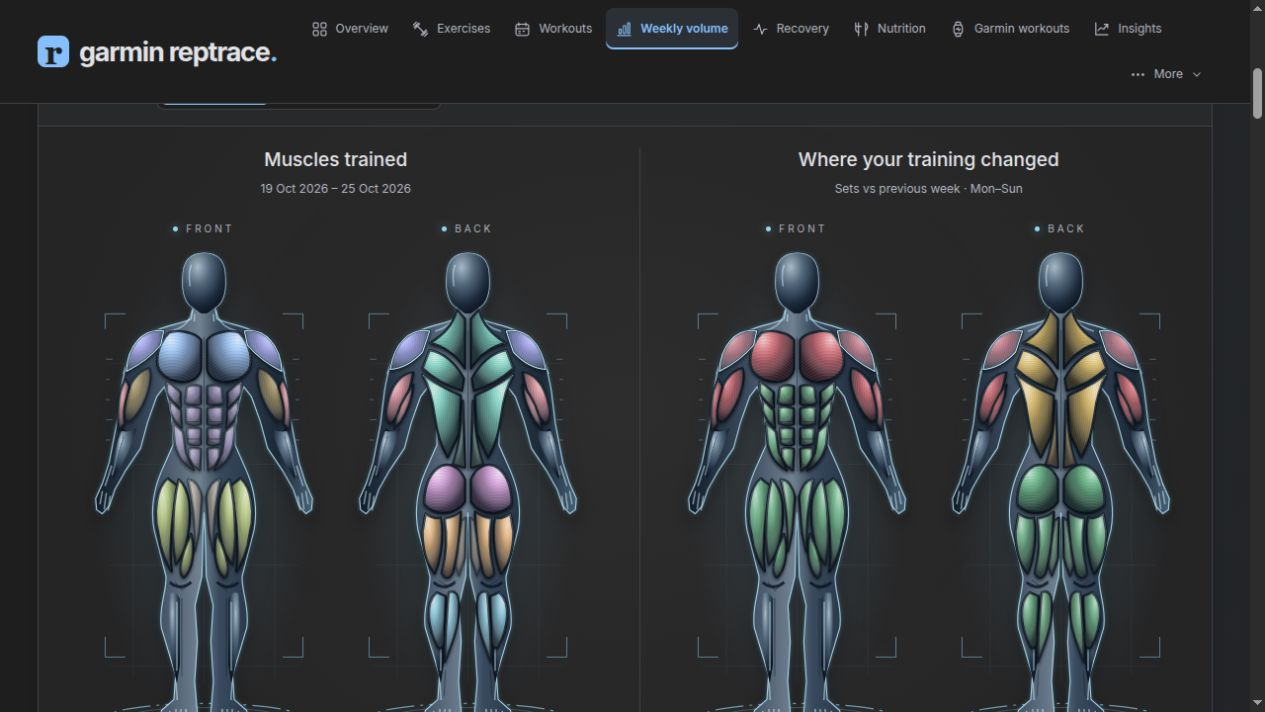
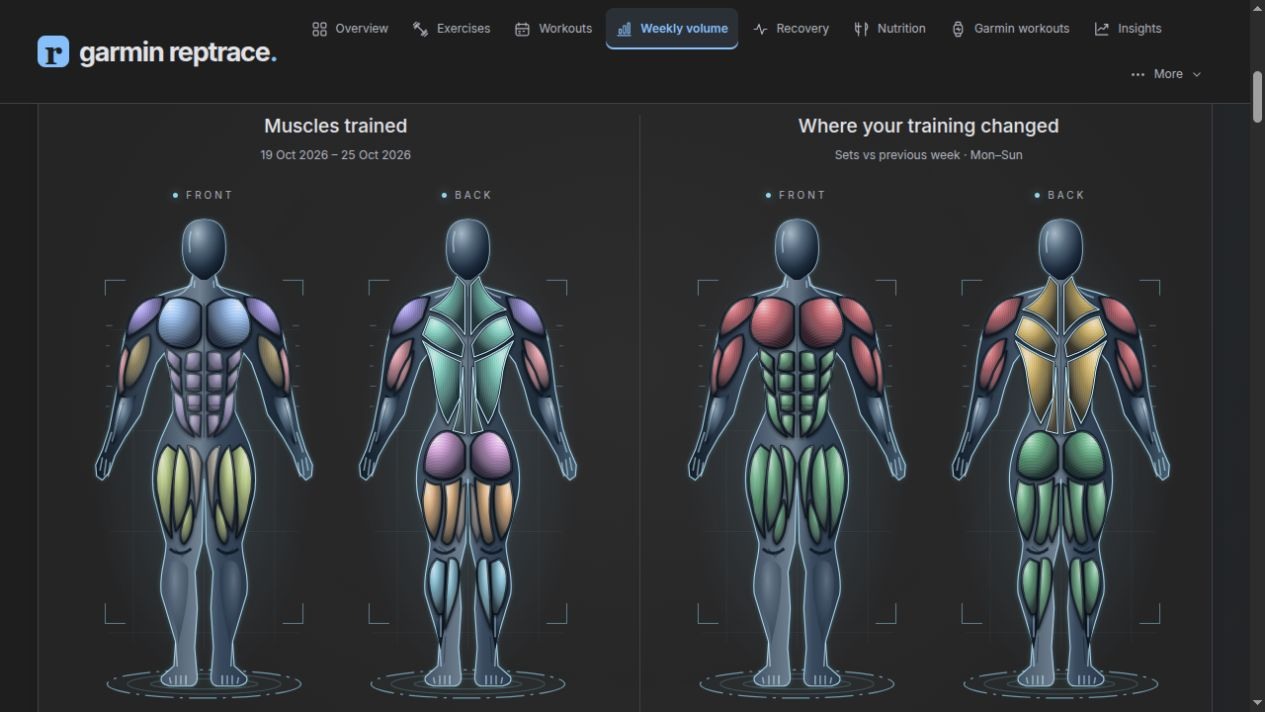
Fix muscle highlight ghosting and front shin artwork

diff --git a/src/reptrace/web/static/styles.css b/src/reptrace/web/static/styles.css
@@ -570,14 +570,14 @@
 @media(max-width:760px){.with-comparison-body .map-visuals{grid-template-columns:1fr;gap:20px}.with-comparison-body .map-change-body{border-left:0;border-top:1px solid var(--line);padding:24px 0 0}.with-comparison-body .map-comparison-cards{grid-template-columns:1fr}.map-body-title{font-size:18px}}
 
 /* Sculpted materials and a quiet holographic stage keep the muscle regions interactive. */
-.body-map-figure{position:relative}.body-map-svg{filter:drop-shadow(0 10px 10px #0005)}
+.body-map-figure{position:relative}.body-map-svg{filter:none}
 .body-stage{pointer-events:none}.body-stage path{fill:none;stroke:#78c7e4;stroke-width:.5;opacity:.10}.body-stage ellipse:not(:first-child){fill:#64d7ff06;stroke:#76cdea;stroke-width:.7;opacity:.35}
 .body-map-svg .body-outline{stroke:#8ba9bd;stroke-width:1;stroke-opacity:.65}
 .body-shell-details{pointer-events:none}.body-shell-details>path:first-child{stroke:#a9c4d5;stroke-opacity:.35;stroke-width:.7}
 .body-rim{fill:none;stroke:#beefff;stroke-width:1.5;stroke-linecap:round;opacity:.55}.body-joint{fill:none;stroke:#07131f;stroke-width:3;opacity:.8}
 .body-map-svg .body-muscle-art path{stroke:#07121e;stroke-width:1.6;filter:drop-shadow(0 1px 1px #0007);transition:stroke .15s,filter .15s}
 .body-map-svg .body-contours{stroke:#091521;stroke-width:1.8;opacity:.8}
-[data-theme="daylight"] .body-stage path{opacity:.19}[data-theme="daylight"] .body-map-svg{filter:drop-shadow(0 7px 8px #20384a33)}
+[data-theme="daylight"] .body-stage path{opacity:.19}[data-theme="daylight"] .body-map-svg{filter:none}
 @media(prefers-reduced-motion:reduce){.body-map-svg .body-muscle-art path{transition:none}}
 
 /* Anatomical lobes share one accessible control per muscle group. */
@@ -647,9 +647,9 @@ summary:focus-visible,textarea:focus-visible{outline:3px solid var(--syntax-nav,
 .body-muscle{cursor:pointer;outline:none}
 .body-muscle .muscle-group-hit{fill:transparent;stroke:transparent;stroke-width:6;stroke-linejoin:round;pointer-events:all}
 .body-muscle .muscle-group-area{fill:transparent;stroke:transparent;pointer-events:none;stroke-linejoin:round;transition:fill .15s,stroke .15s}
-.body-muscle:is(:hover,.selected) .muscle-group-area{fill:#8edfff20;stroke:#b7edff;stroke-width:1;filter:drop-shadow(0 0 3px #88deff55)}
-.body-muscle:focus-visible .muscle-group-area{fill:#8edfff20;stroke:#fff;stroke-width:1.8;stroke-dasharray:4 2}
-[data-theme="daylight"] .body-muscle:is(:hover,.selected) .muscle-group-area{fill:#236b8914;stroke:#236b89}
+.body-muscle.selected .muscle-group-area{fill:none;stroke:#b7edff;stroke-width:1;filter:none}
+.body-muscle:focus-visible .muscle-group-area{fill:none;stroke:#fff;stroke-width:1.8;stroke-dasharray:none;filter:none}
+[data-theme="daylight"] .body-muscle:is(.selected,:focus-visible) .muscle-group-area{fill:none;stroke:#236b89}
 @media(prefers-reduced-motion:reduce){.body-muscle .muscle-group-area{transition:none}}
 .body-map-svg .body-muscle-art path{transition:none}
 

diff --git a/src/reptrace/web/static/motion.css b/src/reptrace/web/static/motion.css
@@ -6,9 +6,10 @@
 }
 
 /* Hover a region or its group button to illuminate matching front/back artwork. */
-.body-map-svg .body-muscle-art[data-body-hovered] {
-  filter: brightness(1.12);
+.body-map-svg .body-muscle-art[data-body-hovered] .muscle-hover-wash {
+  opacity: .1;
 }
+.body-map-svg .body-muscle-art .muscle-hover-wash,
 .body-map-svg .body-muscle-art .muscle-selection-glow {
   fill: #dff4ff;
   stroke: none;
@@ -18,8 +19,8 @@
 }
 
 @media (prefers-reduced-motion: no-preference) {
-  .body-map-svg .body-muscle-art {
-    transition: filter 220ms var(--motion-ease);
+  .body-map-svg .body-muscle-art .muscle-hover-wash {
+    transition: opacity 180ms var(--motion-ease);
   }
   :is(button, .button, .icon-button, .text-link, .topnav-link,
       .topnav-more-toggle, .nav-item, summary, input, select, textarea,
@@ -62,9 +63,8 @@
 
   /* Only the selection overlay changes; the anatomical artwork and hit area are static. */
   .body-muscle .muscle-group-area {
-    transition:
-      fill var(--motion-control) var(--motion-ease),
-      stroke var(--motion-control) var(--motion-ease);
+    /* A retiring outline must not linger beside the newly selected one. */
+    transition: none;
   }
 
   .chart-point {
